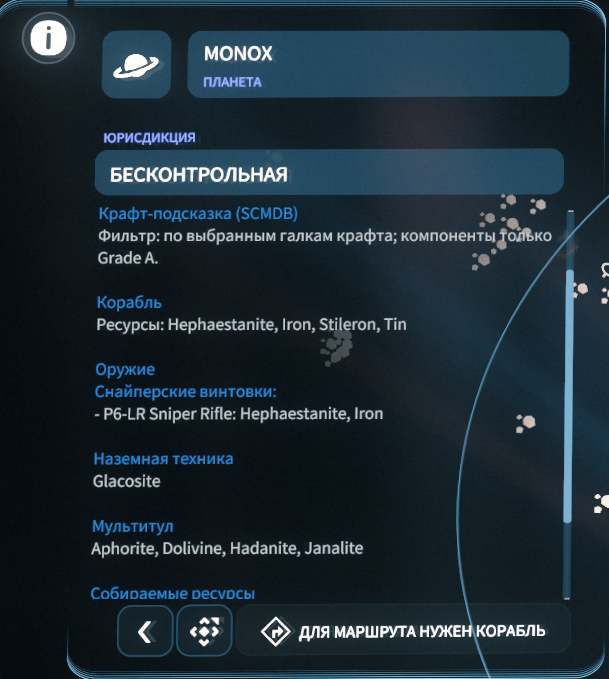
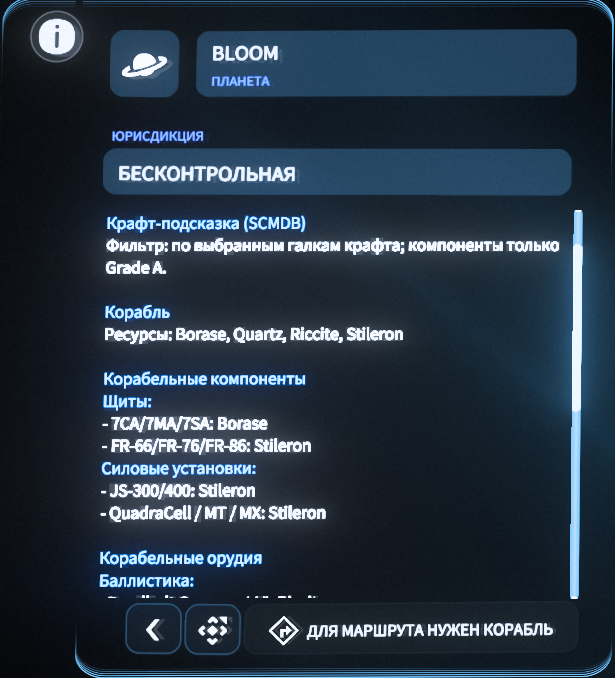
Hotfix SC Mod Launcher 1.0.6 reputation scope

diff --git a/StarCitizen/README.md b/StarCitizen/README.md
@@ -35,16 +35,16 @@
 Как поставить:
 
 1. Установите русский перевод [RuSC](https://www.expanseunion.com/sc/locru).
-2. Скачайте `SC_Mod_Launcher_1.0.5.zip` на странице [Releases](https://github.com/johnniewalker89/my-game-modding/releases/tag/sc-mod-launcher-v1.0.5).
-3. Откройте архив и извлеките из него папку `SC_Mod_Launcher` в удобное место. Не используйте внешнюю папку `SC_Mod_Launcher_1.0.5` как рабочую.
+2. Скачайте `SC_Mod_Launcher_1.0.6.zip` на странице [Releases](https://github.com/johnniewalker89/my-game-modding/releases/tag/sc-mod-launcher-v1.0.6).
+3. Откройте архив и извлеките из него папку `SC_Mod_Launcher` в удобное место. Не используйте внешнюю папку `SC_Mod_Launcher_1.0.6` как рабочую.
 4. Запустите `SC_Mod_Launcher\SC_Mod_Launcher.exe`.
 5. Проверьте путь к `StarCitizen\LIVE`.
 6. Нажмите `Проверить`, при необходимости `Прогреть кэш`, затем `Применить в LIVE`.
 
-SHA-256 релиза `1.0.5`:
+SHA-256 релиза `1.0.6`:
 
 ```text
[2 lines of base64/hex data omitted]
 ```
 
 Подробности: [SC_Mod_Launcher/README.md](SC_Mod_Launcher/README.md).
@@ -61,7 +61,12 @@ SHA-256 релиза `1.0.5`:
 - `[А]` — контракт для асов-пилотов.
 - `[С]` — в награде есть скрипты; особенно выгодные контракты дополнительно подсвечиваются синим.
 
-![Метки контрактов и список доступных чертежей](SC_Mod_Launcher/docs/images/sc-mod-launcher-contract-recipes.png)
+<table>
+  <tr>
+    <td width="50%"><img src="SC_Mod_Launcher/docs/images/sc-mod-launcher-contract-recipes.png" alt="Метки контрактов, репутация и список доступных чертежей"></td>
+    <td width="50%"><img src="SC_Mod_Launcher/docs/images/sc-mod-launcher-farm-contract-highlight.png" alt="Подсветка выгодного фарм-квеста"></td>
+  </tr>
+</table>
 
 ### Майнинг и крафт
 
@@ -71,6 +76,9 @@ SHA-256 релиза `1.0.5`:
   <tr>
     <td width="50%"><img src="SC_Mod_Launcher/docs/images/sc-mod-launcher-item-craft-composition.png" alt="Состав предмета в инвентаре"></td>
     <td width="50%"><img src="SC_Mod_Launcher/docs/images/sc-mod-launcher-mining-map-hints.png" alt="Подсказки добычи и крафта на карте Mobiglas"></td>
+  </tr>
+  <tr>
+    <td colspan="2"><img src="SC_Mod_Launcher/docs/images/sc-mod-launcher-wikelo-item-orders.png" alt="Wikelo-заказы в описании предмета"></td>
   </tr>
 </table>
 

diff --git a/StarCitizen/SC_Mod_Launcher/RELEASES.md b/StarCitizen/SC_Mod_Launcher/RELEASES.md
@@ -9,6 +9,7 @@
 - Названия веток репутации в описаниях выводятся по-русски из локализации, без внутренних SCMDB-терминов.
 - Исправлена защита от цветовых протечек EM-тегов в строках, которые трогает квестовый модуль.
 - Очищены тестовые hex-хвосты в Bit Zeros-контрактах.
+- Закрыта дыра русификатора в названии ветки репутации Headhunters: сырой `@REPSCOPE...` заменяется на `Корабельный бой`.
 - Foxwell `Устроить засаду` оставляет `[А]`: SCMDB показывает шанс появления AcePilot.
 - Применение в LIVE теперь работает от прогретого локального SCMDB-cache; сеть нужна для проверки источников и прогрева cache, а не для записи `global.ini`.
 